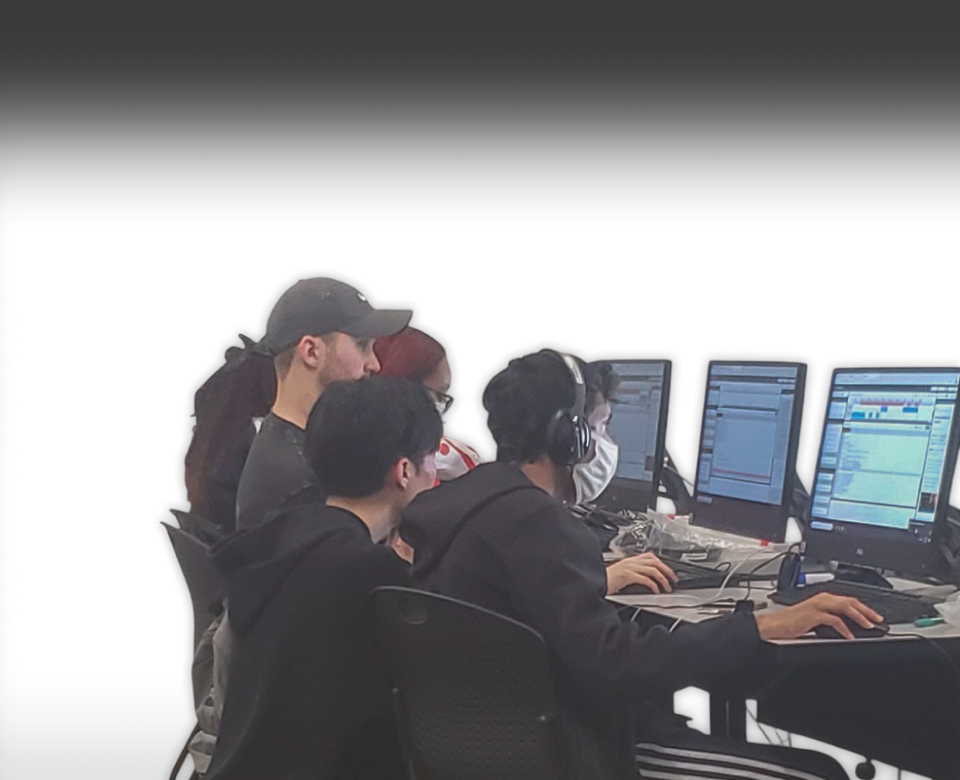
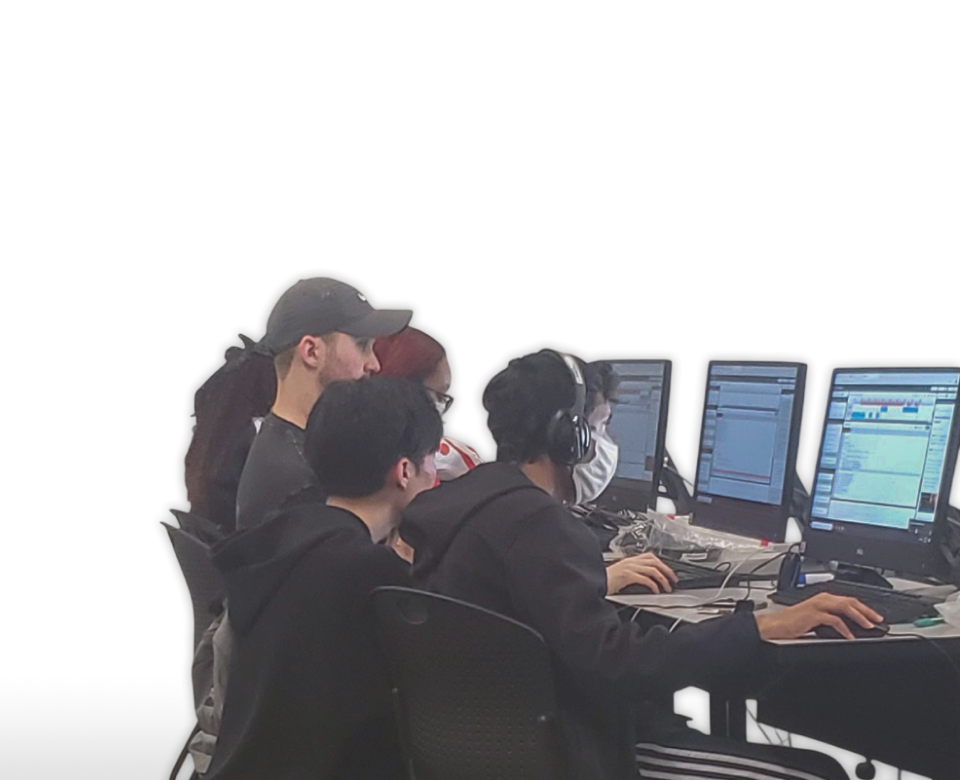
k

Changed region(s): [[0.0, 0.0, 1.0, 0.2462]]

diff --git a/style.css b/style.css
@@ -43,21 +43,21 @@ body, html {
     background-size: contain;
     background-position: center 40px;
     z-index: -1;
-    animation: wipe-left-right 0.3s forwards ease;
+    animation: wipe-left-right 0.5s forwards ease;
 
 }
 
 .highlight1::before {
     background-image: url('images/highlights/highlight1.png');
-    animation-delay: 0.3s;
+    animation-delay: 0.5s;
 }
 .highlight2::before {
     background-image: url('images/highlights/highlight2.png');
-    animation-delay: 0.3s;
+    animation-delay: 0.5s;
 }
 .highlight3::before {
     background-image: url('images/highlights/highlight3.png');
-    animation-delay: 0.3s;
+    animation-delay: 0.5s;
 }
 
 @keyframes wipe-left-right {
@@ -115,8 +115,8 @@ body, html {
 
 /* Main */
 .main-content {
-    padding: 20px 20px;
-    padding-top: 15px;
+    padding: 0px 15px;
+    padding-top: 10px;
 }
 
 .intro-section {
@@ -173,6 +173,7 @@ body, html {
 .intro-text {
     margin-left: -80px;
     max-width: 320px;
+    filter: drop-shadow(0px 0px 2px rgba(0, 0, 0, 0.1));
 }
 
 .intro-text h2 {
@@ -227,11 +228,13 @@ body, html {
 
 .rs-cards-shelf-mainheader {
     padding-left: 0;
-    padding-bottom: 4px;
+    padding-bottom: 14px;
     text-align: left;
     margin-right: 450px;
     font-size: 24px;
     font-weight: 400;
+    filter: drop-shadow(0px 0px 2px rgba(0, 0, 0, 0.1));
+
 }
 
 .as-l-container {
@@ -321,7 +324,7 @@ body, html {
 }
 
 .rf-ccard-img-full-wrapper:hover img {
-    transform: translateY(-1%);
+    transform: translateY(-5%);
   }
 
 /* Text overlay */
@@ -331,7 +334,7 @@ body, html {
     left: 0;
     right: 0;
     padding: 21px;
-    color: #ffffff;
+    color: #000000;
     /* Make the entire overlay a container for the animation */
     overflow: hidden;
 }
@@ -341,21 +344,21 @@ body, html {
     /* Hide by default - move above the card */
     transform: translateY(-100%);
     opacity: 0;
-    filter: drop-shadow(0px 0px 4px rgba(0, 0, 0, 0.3));
+    filter: drop-shadow(0px 0px 3px rgba(0, 0, 0, 0.15));
     /* Base transition for exiting - no delay when unhovered */
     transition: transform 0.2s ease, opacity 0.2s ease;
 }
 
 .rf-ccard-overlay .first-txt {
     font-size: 25px;
-    margin-bottom: -23px;
+    margin-bottom: -25px;
     display: block;
 }
 
 .rf-ccard-overlay .second-txt {
     font-size: 16px;
     display: block;
-    color: rgba(0, 0, 0, 0.6);
+    color: rgba(0, 0, 0, 0.5);
 }
 
 /* Apply different transitions when hovering - with delays for staggered appearance */
